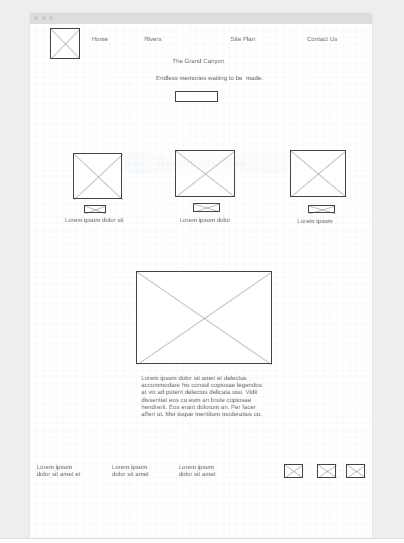
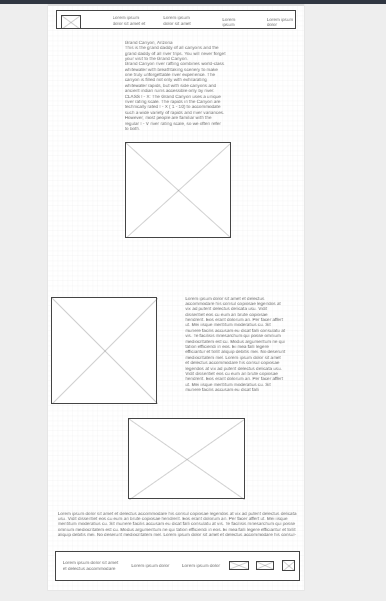
commit

diff --git a/wwr/html1.html b/wwr/html1.html
@@ -1,0 +1,115 @@
+<!DOCTYPE html>
+<html lang="en">
+<head>
+    <meta charset="UTF-8">
+    <meta http-equiv="X-UA-Compatible" content="IE=edge">
+    <meta name="viewport" content="width=device-width, initial-scale=1.0">
+    <title>testing</title>
+</head>
+<body>
+    <h1>
+        Main Fork of the Salmon River, Idaho
+    </h1>
+    <p2>
+        Nestled deep in the Frank Church Wilderness of No Return winds the Salmon river. The Salmon was given the nickname long ago as the River of No Return by the people living near it because of the number of folks that came to visit and fell so in love with the rugged beauty of the river that they never left.
+
+            Herds of elk and deer graze on the hillsides around the river and bear and bighorn sheep are also commonly sighted. The river corridor is also lined with awe inspiring ponderosa pine which tower over the sandy beaches in the campsites and provide shelter from sun or rain when needed.
+            
+            Let's not forget the rapids! They range from class I-IV. The Salmon is one of the longest undammed rivers in the United States. As a free flowing river the water is higher, faster, and colder in the early summer and lower, slower, and warmer in the late summer. There are good rapids all summer...but families with children who like to swim tend to appreciate the late summer's slower, warmer water mor
+    </p2>
+    <h2>
+
+    </h2>
+    
+    <img class="card-img" src="images/camping.jpg" alt="tent in mountains">
+</body>
+</html>
+
+
+<!DOCTYPE html>
+<html lang="en">
+<head>
+    <meta charset="UTF-8">
+    <meta http-equiv="X-UA-Compatible" content="IE=edge">
+    <meta name="viewport" content="width=device-width, initial-scale=1.0">
+    <title>Rivers | Subpage</title>
+    <link rel="stylesheet" href="styles/styles.css">
+</head>
+
+<body>
+    <div id="content">
+    <header>
+        <a id="logo_link" href="index.html">
+            <img class="logo" src="images/logo.png" alt="Dry Oar Logo">
+        </a>
+        <nav>
+            <a href="index.html">Home</a>
+            <a href="#">Page 2</a>
+            <a href="site-plan-rafting.html">Site Plan</a>
+            <a href="contactus.html">Contact Us</a>
+        </nav>
+    </header>
+
+        </section>
+    </div>
+    <main class="home-grid">
+        <section class="rivers-card">
+            <img class="card-img" src="images/rivers.jpg" alt="river in forest">
+            <img class="icon" src="images/river_icon.png" alt="river icon">
+            <h2>Rivers</h2>
+        </section>
+        <section class="camping-card">
+            <img class="card-img" src="images/camping.jpg" alt="tent in mountains">
+            <img class="icon" src="images/fire_icon.png" alt="fire icon">
+            <h2>Camping</h2>
+        </section>
+        <section class="rapids-card">
+            <img class="card-img" src="images/rapids.jpg" alt="rafting boat">
+            <img class="icon" src="images/oars.png" alt="oars icon">
+            <h2>Rapids</h2>
+        </section>
+        <div id="background"></div> 
+        <img class="mountains" src="images/mountains.jpg" alt="Misty mountains">
+        <section class="msg">
+        <h2>Main Fork of the Salmon River, Idaho</h2>
+        <p> Nestled deep in the Frank Church Wilderness of No Return winds the Salmon river. The Salmon was given the nickname long ago as the River of No Return by the people living near it because of the number of folks that came to visit and fell so in love with the rugged beauty of the river that they never left.
+
+            Herds of elk and deer graze on the hillsides around the river and bear and bighorn sheep are also commonly sighted. The river corridor is also lined with awe inspiring ponderosa pine which tower over the sandy beaches in the campsites and provide shelter from sun or rain when needed.
+            
+            Let's not forget the rapids! They range from class I-IV. The Salmon is one of the longest undammed rivers in the United States. As a free flowing river the water is higher, faster, and colder in the early summer and lower, slower, and warmer in the late summer. There are good rapids all summer...but families with children who like to swim tend to appreciate the late summer's slower, warmer water more. </p>
+        <h3>Desolation and Gray Canyon, Utah</h3>
+        <p>Winding through canyons in central Utah, in some of the most desolate land anywhere, the Green river flows towards the mighty Colorado river and the sea. High grey stone cliffs, beautiful desert scenery, and great rapids have made this run famous. This 84-mile trip runs from from Sand Wash to Swaseys Rapid (just outside Green River Utah) and boasts outstanding scenery, interesting geologic formations, evidence of prehistoric and historic human activity, and great whitewater opportunities.
+
+            Desolation is rated a Class II/III and is usually done in 6 days
+            
+            Desolation Canyon has been recognized as a National Landmark.  This designation is based on the uniqueness and rich history that the canyon tells.</p>
+            
+        <h4>Grand Canyon, Arizona
+            This is the grand daddy of all canyons and the grand daddy of all river trips. You will never forget your visit to the Grand Canyon.
+            
+            Grand Canyon river rafting combines world-class whitewater with breathtaking scenery to make one truly unforgettable river experience. The canyon is filled not only with exhilarating whitewater rapids, but with side canyons and ancient indian ruins accessible only by river.
+            
+            CLASS I - X: The Grand Canyon uses a unique river rating scale. The rapids in the Canyon are technically rated I - X ( 1 - 10) to accommodate such a wide variety of rapids and river variances. However, most people are familiar with the regular I - V river rating scale, so we often refer to both.</h4>
+            <a class='join' href="rivers.html">Join Us</a>
+        </section>
+</main>
+<footer>
+    <p>Dry Oar &copy; 20XX - Your First and Last Name Here</p>
+    <p><a href="site-plan-rafting.html">Site Plan</a></p>
+    <p><a href="contactus.html">Contact Us</a></p>
+    <div class="social">
+        <a href="https://facebook.com" target="_blank">
+            <img src="images/facebook.png" alt="fb icon">
+        </a>
+        <a href="https://twitter.com" target="_blank">
+            <img src="images/twitter.png" alt="twitter icon">
+        </a>
+        <a href="https://instagram.com" target="_blank">
+            <img src="images/instagram.png" alt="instagram icon">
+        </a>
+    </div>
+</footer>
+            
+    </div>  
+</body>
+</html>

diff --git a/wwr/styles/styles.css b/wwr/styles/styles.css
@@ -23,6 +23,8 @@ max-width: 1600px;
             display: grid;
             grid-template-columns: 1fr 1fr 1fr 1fr 1fr 1fr 1fr 1fr 1fr 1fr;
         }
+
+        
     
         h2 {
             margin: 0;
@@ -260,6 +262,73 @@ max-width: 1600px;
     footer .social img {
         padding-top: 15px;
     }
+
+    /*Rivers Page CSS*/
+    .main-grid {
+        display:grid;
+        grid-template-columns: 1fr 1fr ;
+        grid-gap: 50px;
+        justify-items: center;
+        align-items: center;
+    }
+
+    .salmon{
+        grid-column: 1/3;
+        grid-row: 1/2;
+        width: 50%;
+    }
+
+    .rivers-img{
+        grid-column: 1/3;
+        grid-row: 2/3;
+        width: 50%;
+    }
+
+    .rivers-img2{
+        grid-column: 1/2;
+        grid-row: 3/4;
+        width:80%;
+    }
+
+    .canyon{
+        grid-column: 2/3;
+        grid-row: 3/4;
+        width: 80%;
+    }
+
+    .rivers-img1{
+        grid-column: 1/3;
+        grid-row: 4/5;
+        width:50%;
+    }
+
+    .desolation{
+        grid-column: 1/3;
+        grid-row: 5/6;
+        width:50%;
+    }
+
+    
+
+
+
+
+
+
+
+
+
+
+
+
+
+
+
+
+
+
+
+
 
     @media screen and (max-width: 900px) {
         #hero, .home-grid {
